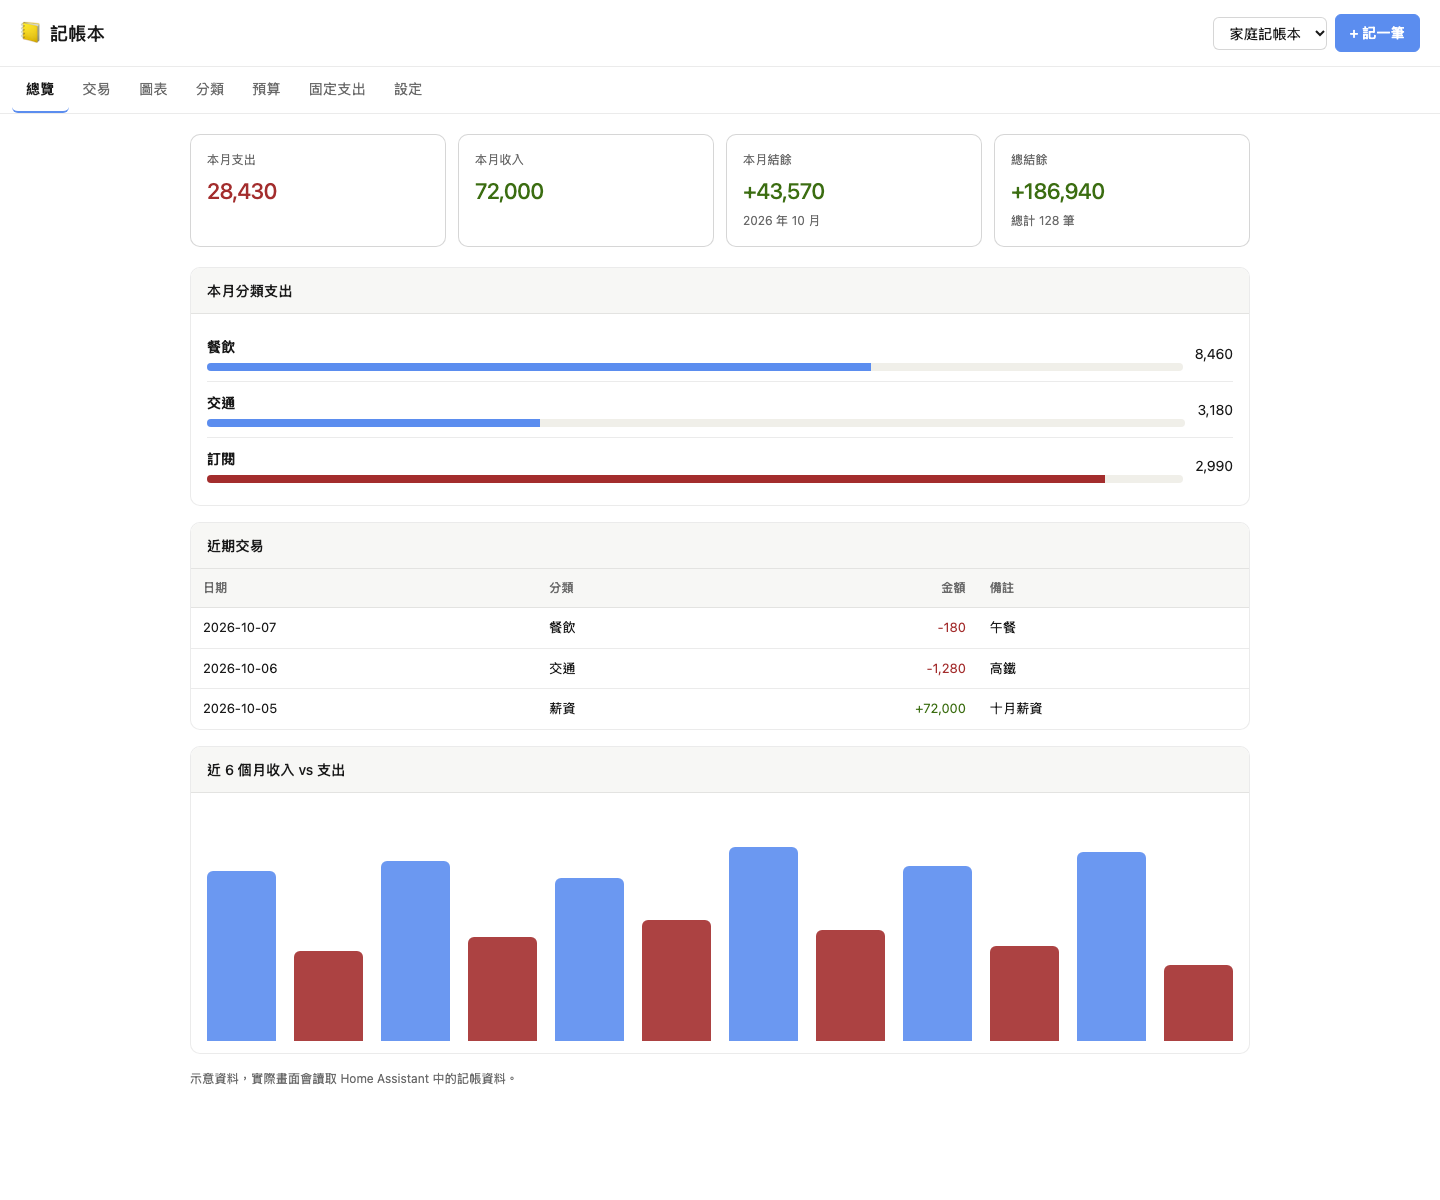
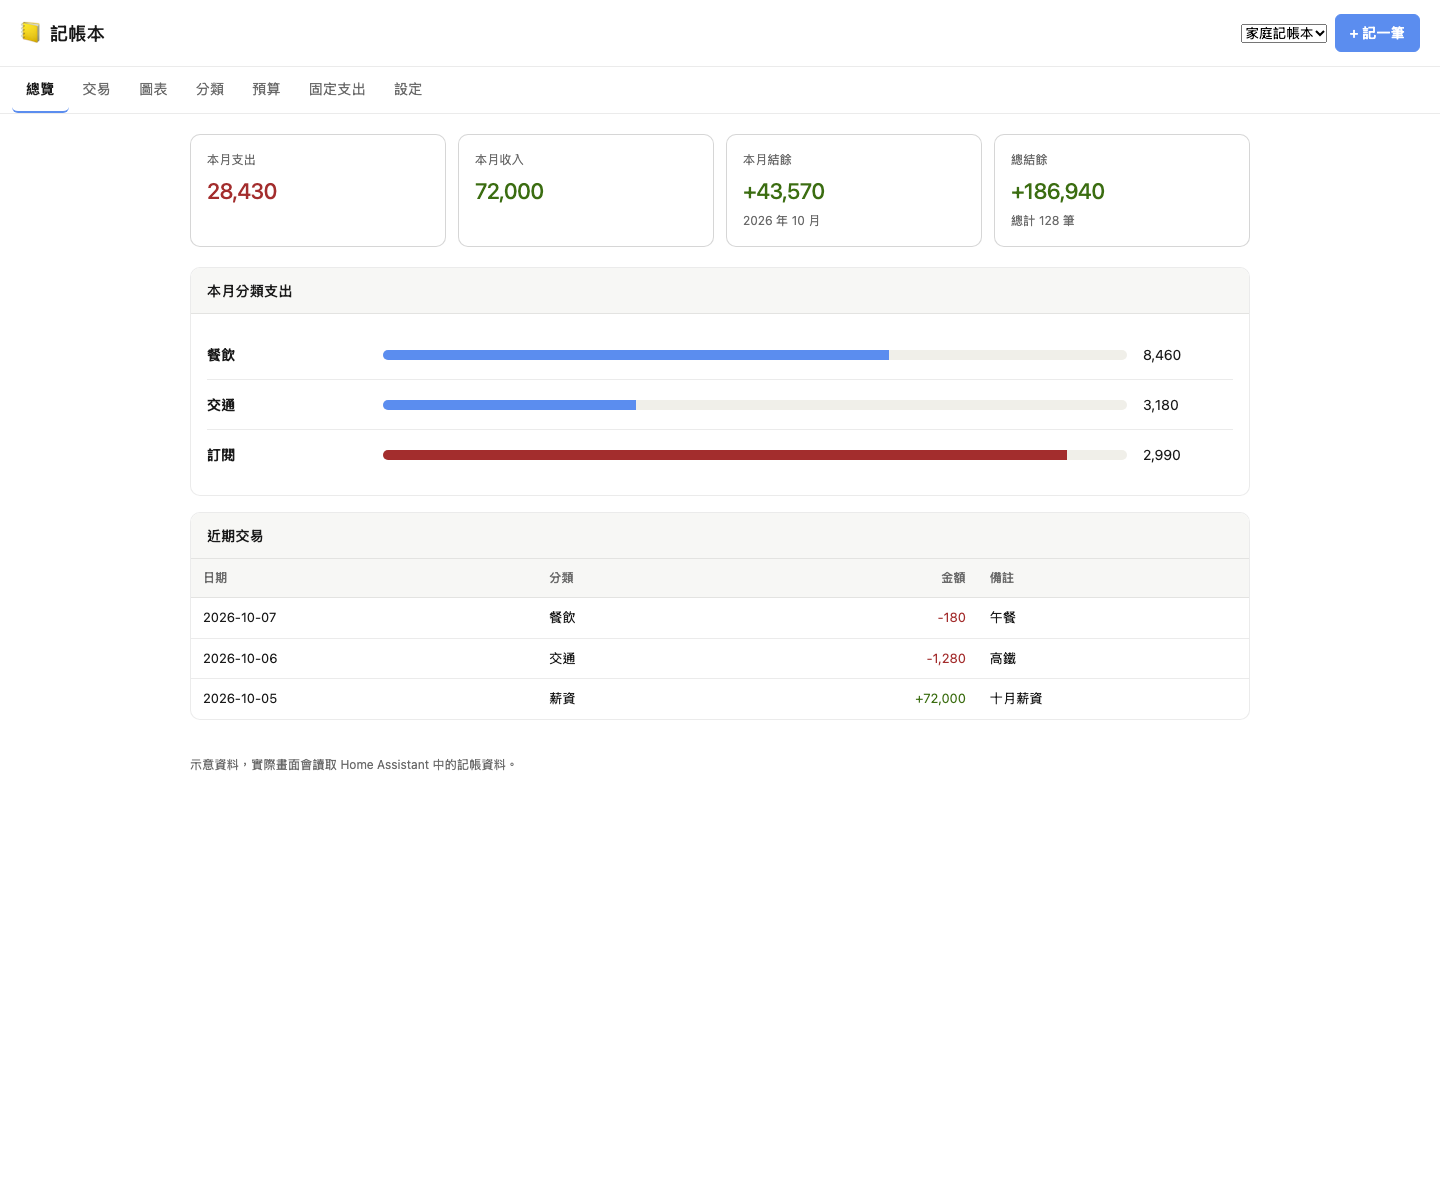
Add screenshot gallery

diff --git a/README.md b/README.md
@@ -4,7 +4,21 @@
 
 A Home Assistant custom integration that adds a sidebar budgeting panel with transaction tracking, income and expense summaries, category budgets, recurring expenses, and JSON import/export. Data is stored in Home Assistant storage, so it is included with your regular HA backups.
 
-![Budget Book screenshot](docs/images/screenshot-overview.png)
+## Screenshots
+
+### Desktop
+
+| Overview | Transactions |
+| --- | --- |
+| ![Overview screen](docs/images/screenshot-overview.png) | ![Transactions screen](docs/images/screenshot-transactions.png) |
+
+| Charts | Budgets |
+| --- | --- |
+| ![Charts screen](docs/images/screenshot-charts.png) | ![Budgets screen](docs/images/screenshot-budgets.png) |
+
+### Mobile
+
+![Mobile overview screen](docs/images/screenshot-mobile-overview.png)
 
 ## Features
 
@@ -67,4 +81,3 @@ See `services.yaml` for the full field definitions.
 ## License
 
 This project is licensed under the MIT License.
-

diff --git a/README.zh-TW.md b/README.zh-TW.md
@@ -4,7 +4,21 @@
 
 Home Assistant 自訂整合，提供側邊欄記帳面板、收支統計、分類預算、固定支出與資料匯入匯出功能。資料儲存在 Home Assistant storage，會跟著 HA 備份一起保存。
 
-![記帳本軟體畫面](docs/images/screenshot-overview.png)
+## 軟體截圖
+
+### 桌面版
+
+| 總覽 | 交易 |
+| --- | --- |
+| ![總覽畫面](docs/images/screenshot-overview.png) | ![交易畫面](docs/images/screenshot-transactions.png) |
+
+| 圖表 | 預算 |
+| --- | --- |
+| ![圖表畫面](docs/images/screenshot-charts.png) | ![預算畫面](docs/images/screenshot-budgets.png) |
+
+### 手機版
+
+![手機總覽畫面](docs/images/screenshot-mobile-overview.png)
 
 ## 功能
 
